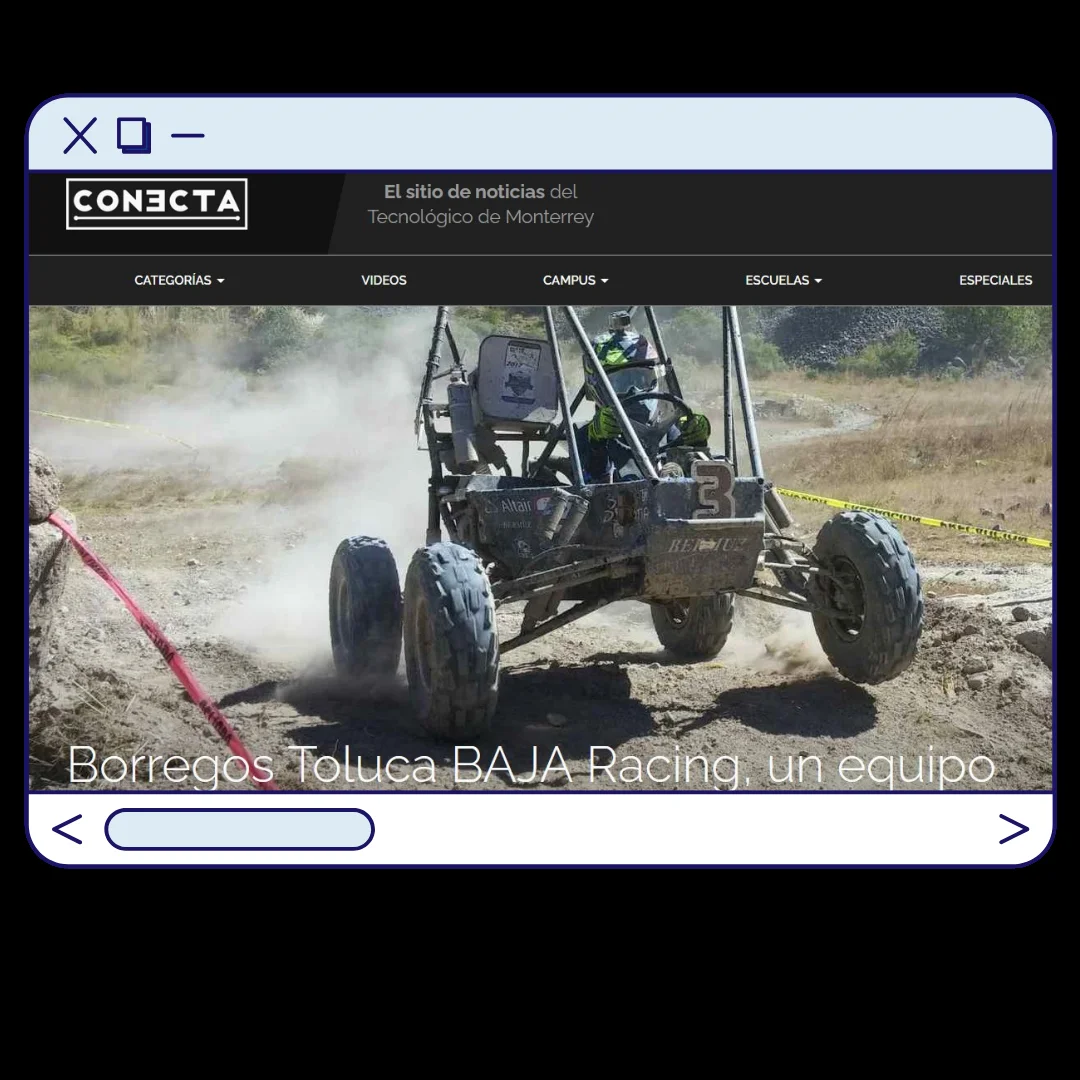
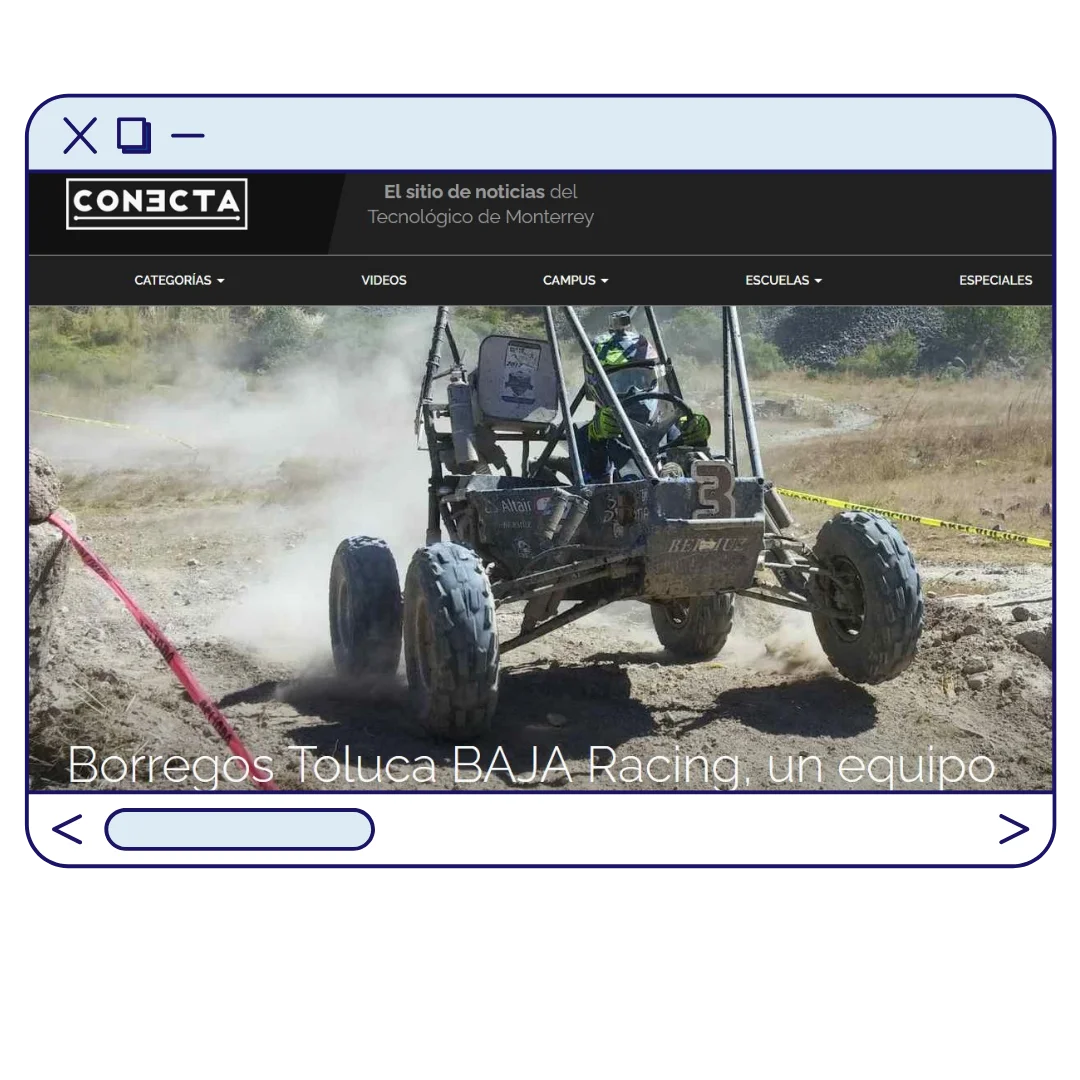
Add subsystem engineering images to Project 4 (Powertrain, Chassis, Suspension, Steering, Mechanical Drawings) with WebP optimization

diff --git a/projects/project-4-baja/project-4-baja.html b/projects/project-4-baja/project-4-baja.html
@@ -141,6 +141,29 @@
               </video>
               <p style="text-align: center; margin-top: 0.5rem; color: #999; font-size: 0.9rem;">BAJA vehicle demonstration video</p>
             </div>
+            <div style="grid-column: span 3; margin-top: 2rem;">
+              <h3 style="text-align: center; margin-bottom: 1.5rem; color: #333;">Subsystem Engineering & CAD Details</h3>
+            </div>
+            <div class="gallery-item" data-aos="fade-up" data-aos-delay="500">
+              <img src="../../projects/project-4-baja/img/Powertrain.webp" alt="Powertrain system" class="img-fluid glightbox" style="height: 420px; object-fit: contain; width: 100%; min-height: 350px; border-radius: 12px;">
+              <p style="text-align: center; margin-top: 0.5rem; color: #999; font-size: 0.9rem;">CVT Powertrain & Drivetrain Assembly</p>
+            </div>
+            <div class="gallery-item" data-aos="fade-up" data-aos-delay="525">
+              <img src="../../projects/project-4-baja/img/Chassis.webp" alt="Chassis frame" class="img-fluid glightbox" style="height: 420px; object-fit: contain; width: 100%; min-height: 350px; border-radius: 12px;">
+              <p style="text-align: center; margin-top: 0.5rem; color: #999; font-size: 0.9rem;">AISI 4130 Tubular Chassis Frame</p>
+            </div>
+            <div class="gallery-item" data-aos="fade-up" data-aos-delay="550">
+              <img src="../../projects/project-4-baja/img/Suspension.webp" alt="Suspension system" class="img-fluid glightbox" style="height: 420px; object-fit: contain; width: 100%; min-height: 350px; border-radius: 12px;">
+              <p style="text-align: center; margin-top: 0.5rem; color: #999; font-size: 0.9rem;">Double-Wishbone Suspension & Fox Float Dampers</p>
+            </div>
+            <div class="gallery-item" data-aos="fade-up" data-aos-delay="575">
+              <img src="../../projects/project-4-baja/img/Steering.webp" alt="Steering system" class="img-fluid glightbox" style="height: 420px; object-fit: contain; width: 100%; min-height: 350px; border-radius: 12px;">
+              <p style="text-align: center; margin-top: 0.5rem; color: #999; font-size: 0.9rem;">Rack-and-Pinion Steering Geometry</p>
+            </div>
+            <div class="gallery-item" data-aos="fade-up" data-aos-delay="600">
+              <img src="../../projects/project-4-baja/img/Mechanical Drawing Component.webp" alt="Mechanical drawing" class="img-fluid glightbox" style="height: 420px; object-fit: contain; width: 100%; min-height: 350px; border-radius: 12px;">
+              <p style="text-align: center; margin-top: 0.5rem; color: #999; font-size: 0.9rem;">Mechanical Engineering Drawings & Specifications</p>
+            </div>
           </div>
         </div>
 
